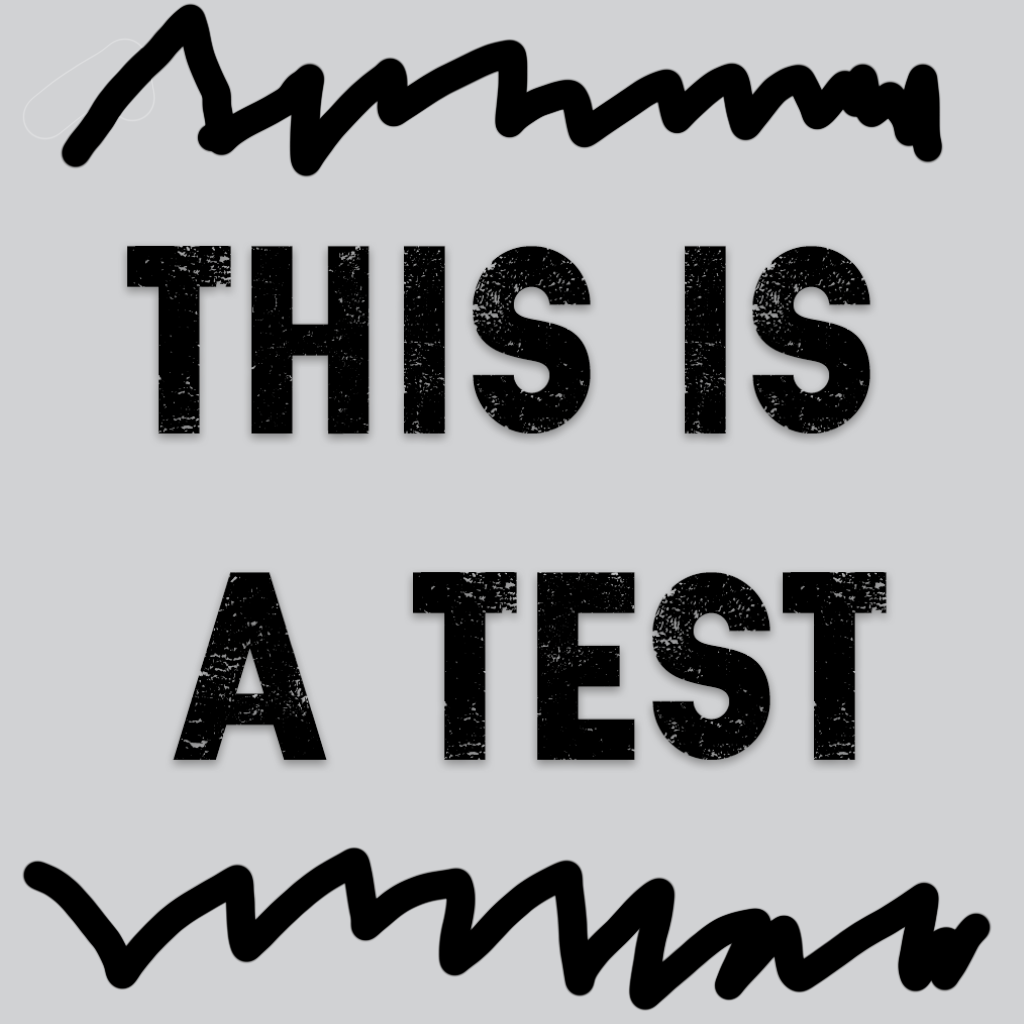
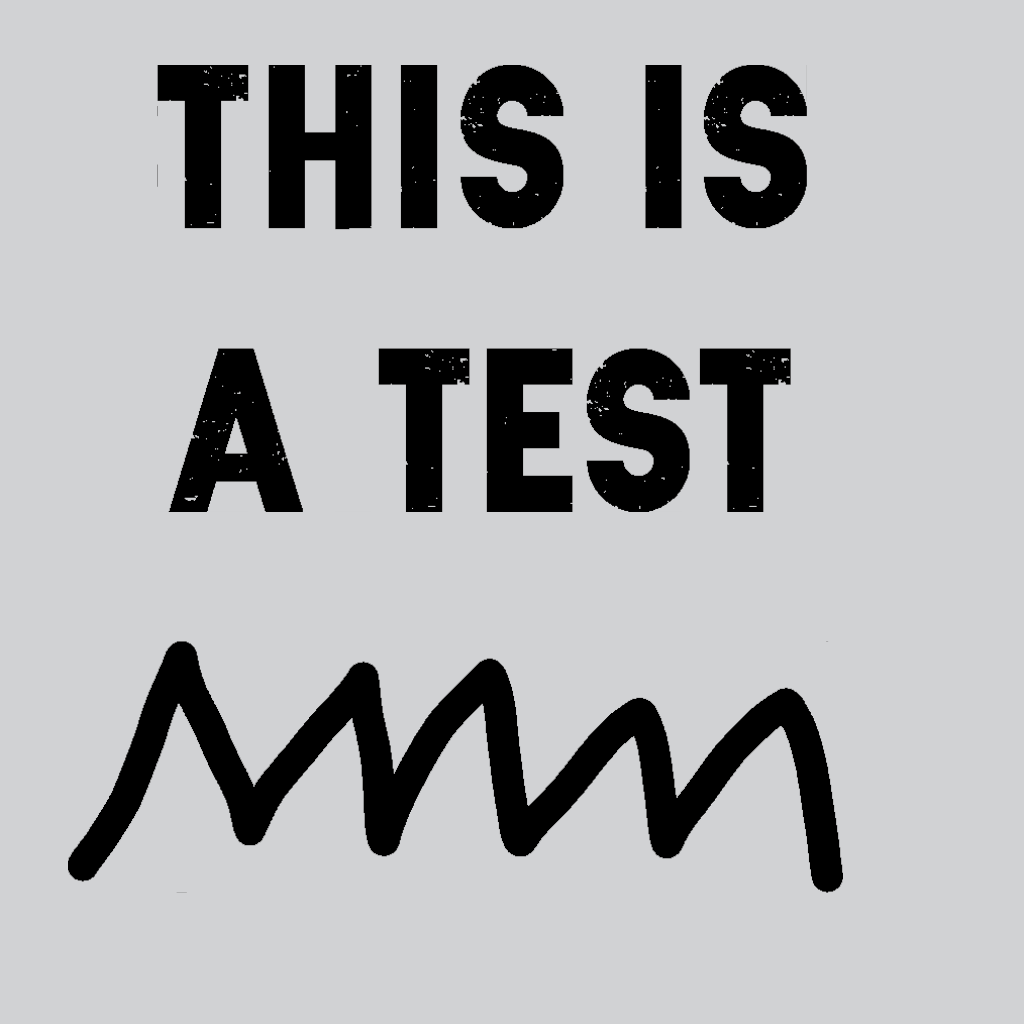
bug fixes to images, added document bounds, image position now set from unity, tested on device, working good.

diff --git a/PhotoshopPlugin/main.js b/PhotoshopPlugin/main.js
@@ -36,7 +36,7 @@
 
 		var item = currDocument.layers[layerIndex];
 
-        var options = { clipToDocumentBounds: true};
+        var options = {clipToDocumentBounds: true};
 		generator.getPixmap(currDocument.id, item.id, options)
 		.then(function(pixmap) {
 
@@ -50,6 +50,10 @@
         	var imageLayer = {
   				width: pixmap.width,
 				height: pixmap.height,
+				top: pixmap.bounds.top,
+				bottom: pixmap.bounds.bottom,
+				left: pixmap.bounds.left,
+				right: pixmap.bounds.right,
 				pixels: pixmap.pixels						
 			};
 

diff --git a/Assets/Scripts/CreateImage.cs b/Assets/Scripts/CreateImage.cs
@@ -4,9 +4,10 @@ using UnityEngine;
 public class CreateImage : MonoBehaviour {
 
     const float DOCUMENT_SIZE = 1024f;
-    const float Z_DISTANCE = .0001f;
 
     public GameObject imageObject;
+
+    int totalImages;
 
     void Start() {
         WebSocketConnection.messageRecieved += OnImageReceived;
@@ -18,7 +19,8 @@ public class CreateImage : MonoBehaviour {
         WebSocketConnection.messageStarted -= OnNewMessageIncoming;
     }
 
-    public void OnNewMessageIncoming() {
+    public void OnNewMessageIncoming(int numImages) {
+        totalImages = numImages;
         //clear error state
         TargetController.Instance.imageTransferError = false;
         TargetController.Instance.imageTrackerCreated = false;
@@ -42,9 +44,21 @@ public class CreateImage : MonoBehaviour {
 
         //create image plane
         GameObject image = Instantiate(imageObject, transform);
-        //position object behind the last one
-        float zPos = Z_DISTANCE * transform.childCount;
-        image.transform.localPosition = new Vector3(0, 0, zPos);
+
+        //set layering
+        image.transform.SetAsLastSibling();
+        image.GetComponent<Renderer>().material.renderQueue = 3000 + totalImages - transform.childCount;
+
+        //convert photoshop coords to unity
+        if (currImage.top == 0 && currImage.bottom == DOCUMENT_SIZE && currImage.left == 0 && currImage.right == DOCUMENT_SIZE) {
+            //full screen image dont move on x or y
+            image.transform.localPosition = Vector3.zero;
+        } else {
+            float xPos = PhotoshopLeftToUnityXPos(currImage.left, currImage.width);
+            float yPos = PhotoshopTopToUnityYPos(currImage.top, currImage.height);
+            image.transform.localPosition = new Vector3(xPos, yPos, 0);
+        }
+
         //scale object based on size of photoshop layer
         image.transform.localScale = new Vector3((float)currImage.width / DOCUMENT_SIZE, (float)currImage.height / DOCUMENT_SIZE, 1);
 
@@ -70,5 +84,20 @@ public class CreateImage : MonoBehaviour {
         Debug.Log(currImage.pixels.data.Length);
 
         yield return null;
+    }
+
+    float PhotoshopLeftToUnityXPos(float left, float width) {
+
+        //images coming in mirrored on x? (I inverted the scale on the material)
+        float leftAmount = left / 1024f;
+        float halfImageWidth = width / DOCUMENT_SIZE / 2f;
+        return leftAmount - .5f + halfImageWidth;
+    }
+
+    float PhotoshopTopToUnityYPos(float top, float height) {
+
+        float topAmount = top / 1024f;
+        float halfImageHeight = height / DOCUMENT_SIZE / 2f;
+        return -topAmount + .5f - halfImageHeight;
     }
 }

diff --git a/Assets/Scripts/WebSocketConnection.cs b/Assets/Scripts/WebSocketConnection.cs
@@ -1,6 +1,5 @@
 using UnityEngine;
 using NativeWebSocket;
-using System.Collections;
 using System.Threading;
 using System.Collections.Generic;
 
@@ -9,7 +8,7 @@ public class WebSocketConnection : MonoBehaviour {
     public delegate void OnMessageRecieved(ImageMessage currImage);
     public static OnMessageRecieved messageRecieved;
 
-    public delegate void OnMessageStarted();
+    public delegate void OnMessageStarted(int numImages);
     public static OnMessageStarted messageStarted;
 
     public delegate void OnMessageCompleted();
@@ -30,7 +29,6 @@ public class WebSocketConnection : MonoBehaviour {
             messageRecieved?.Invoke(imageCopy);
             currImages.Remove(imageMessage);
             if (numLayers == 0) {
-                Message.Instance.ShowMessage("Loading images...");
                 messageComplete?.Invoke();
             }
         }
@@ -67,7 +65,7 @@ public class WebSocketConnection : MonoBehaviour {
 
         if (messageData.Length > 10) {
             numLayers--;
-            Message.Instance.ShowMessage("Recieving layers...");
+            Message.Instance.ShowMessage("Loading layers...");
             //desierializing large JSON causes app to hang in coroutine so we can do another thread instead.
             Thread loadImageMessage = new Thread(LoadImageMessageThread);
             loadImageMessage.Start(messageData);
@@ -75,7 +73,7 @@ public class WebSocketConnection : MonoBehaviour {
             string message = System.Text.Encoding.UTF8.GetString(messageData);
             numLayers = int.Parse(message);
             Message.Instance.ShowMessage("Extracting " + message + " layers...");
-            messageStarted?.Invoke();  
+            messageStarted?.Invoke(numLayers);  
         }
     }
 

diff --git a/Assets/Scripts/TargetController.cs b/Assets/Scripts/TargetController.cs
@@ -27,7 +27,7 @@ public class TargetController : Singleton<TargetController> {
         targetCamera.gameObject.SetActive(false);
     }
 
-    void OnNewMessageIncoming() {
+    void OnNewMessageIncoming(int unused) {
         var objectTracker = TrackerManager.Instance.GetTracker<ObjectTracker>();
         objectTracker.Stop();
         objectTracker.DestroyAllDataSets(false);
@@ -48,6 +48,7 @@ public class TargetController : Singleton<TargetController> {
 
         //get image target texture from second camera
         MoveHandle.Instance.EnableVisuals(true);
+        targetCamera.transform.position = MoveHandle.Instance.ImageParent.position;
         yield return new WaitForEndOfFrame();
         targetCamera.Render();
         Texture2D imageTargetTexture = RenderTexutreToTexture2D(targetCamera.activeTexture);

diff --git a/Assets/Scripts/ImageMessage.cs b/Assets/Scripts/ImageMessage.cs
@@ -2,5 +2,9 @@
 public class ImageMessage {
     public int width;
     public int height;
+    public int top;
+    public int bottom;
+    public int left;
+    public int right;
     public ImageData pixels;
 }
